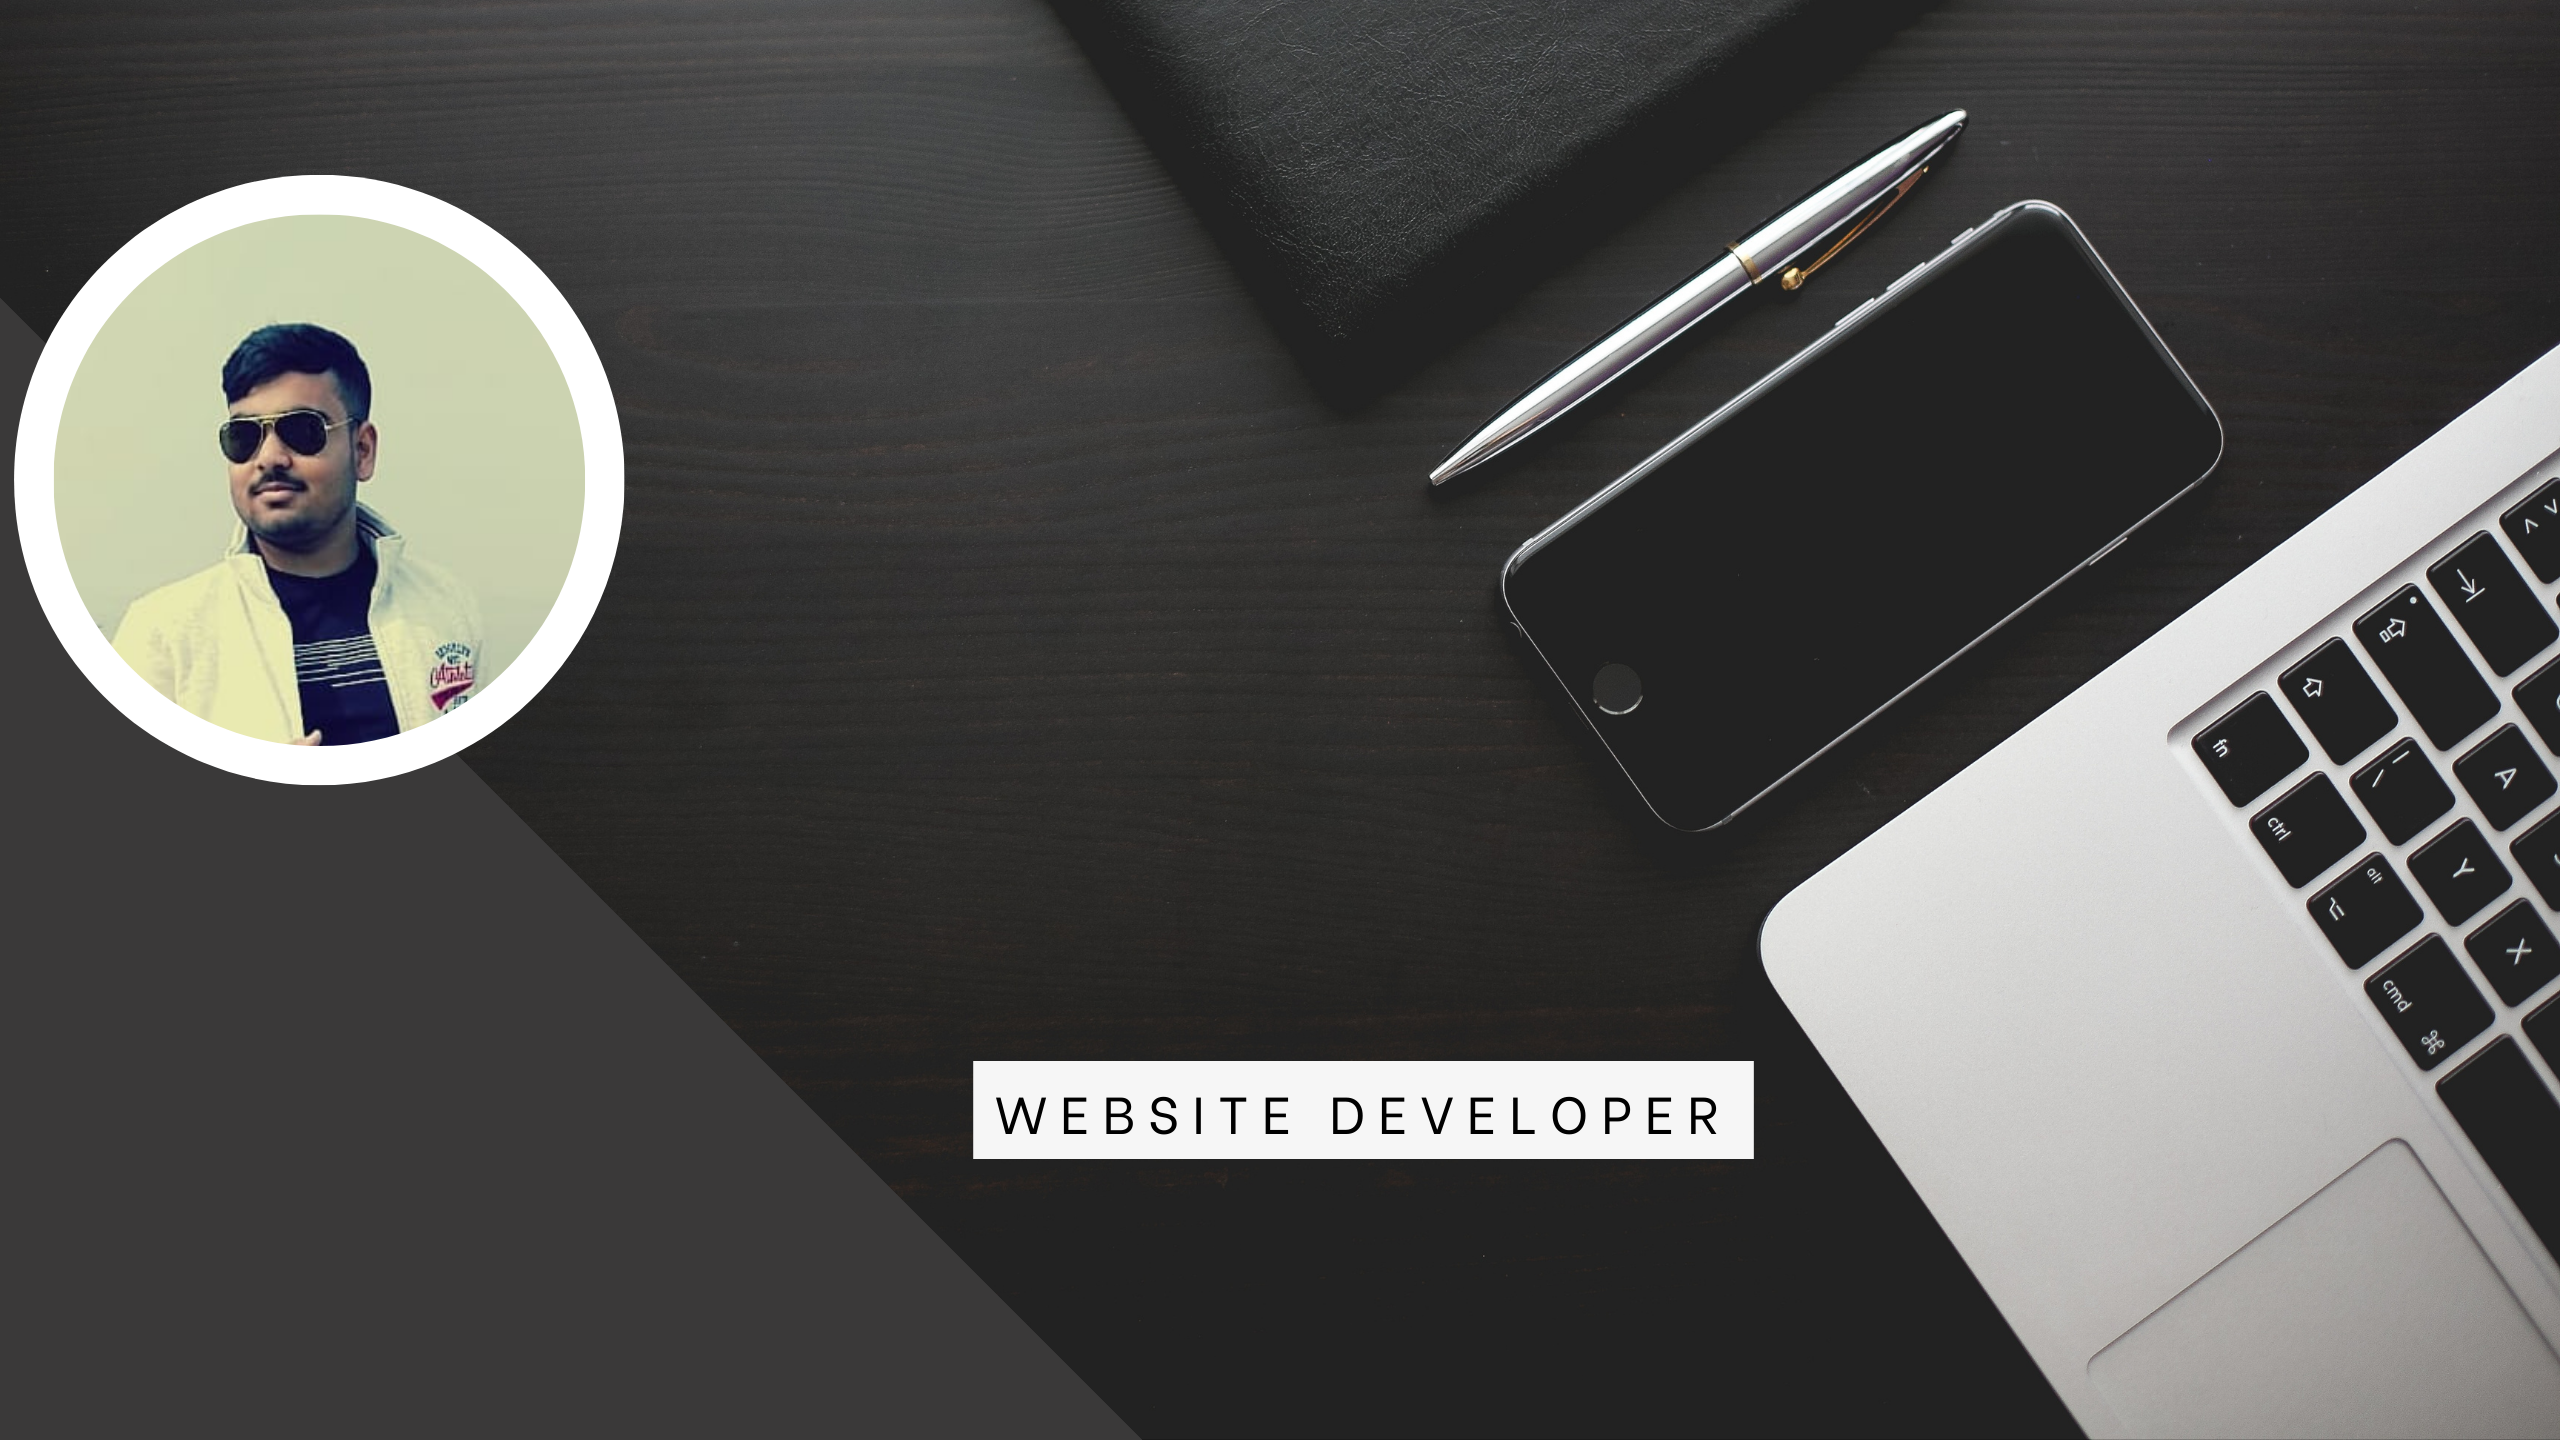
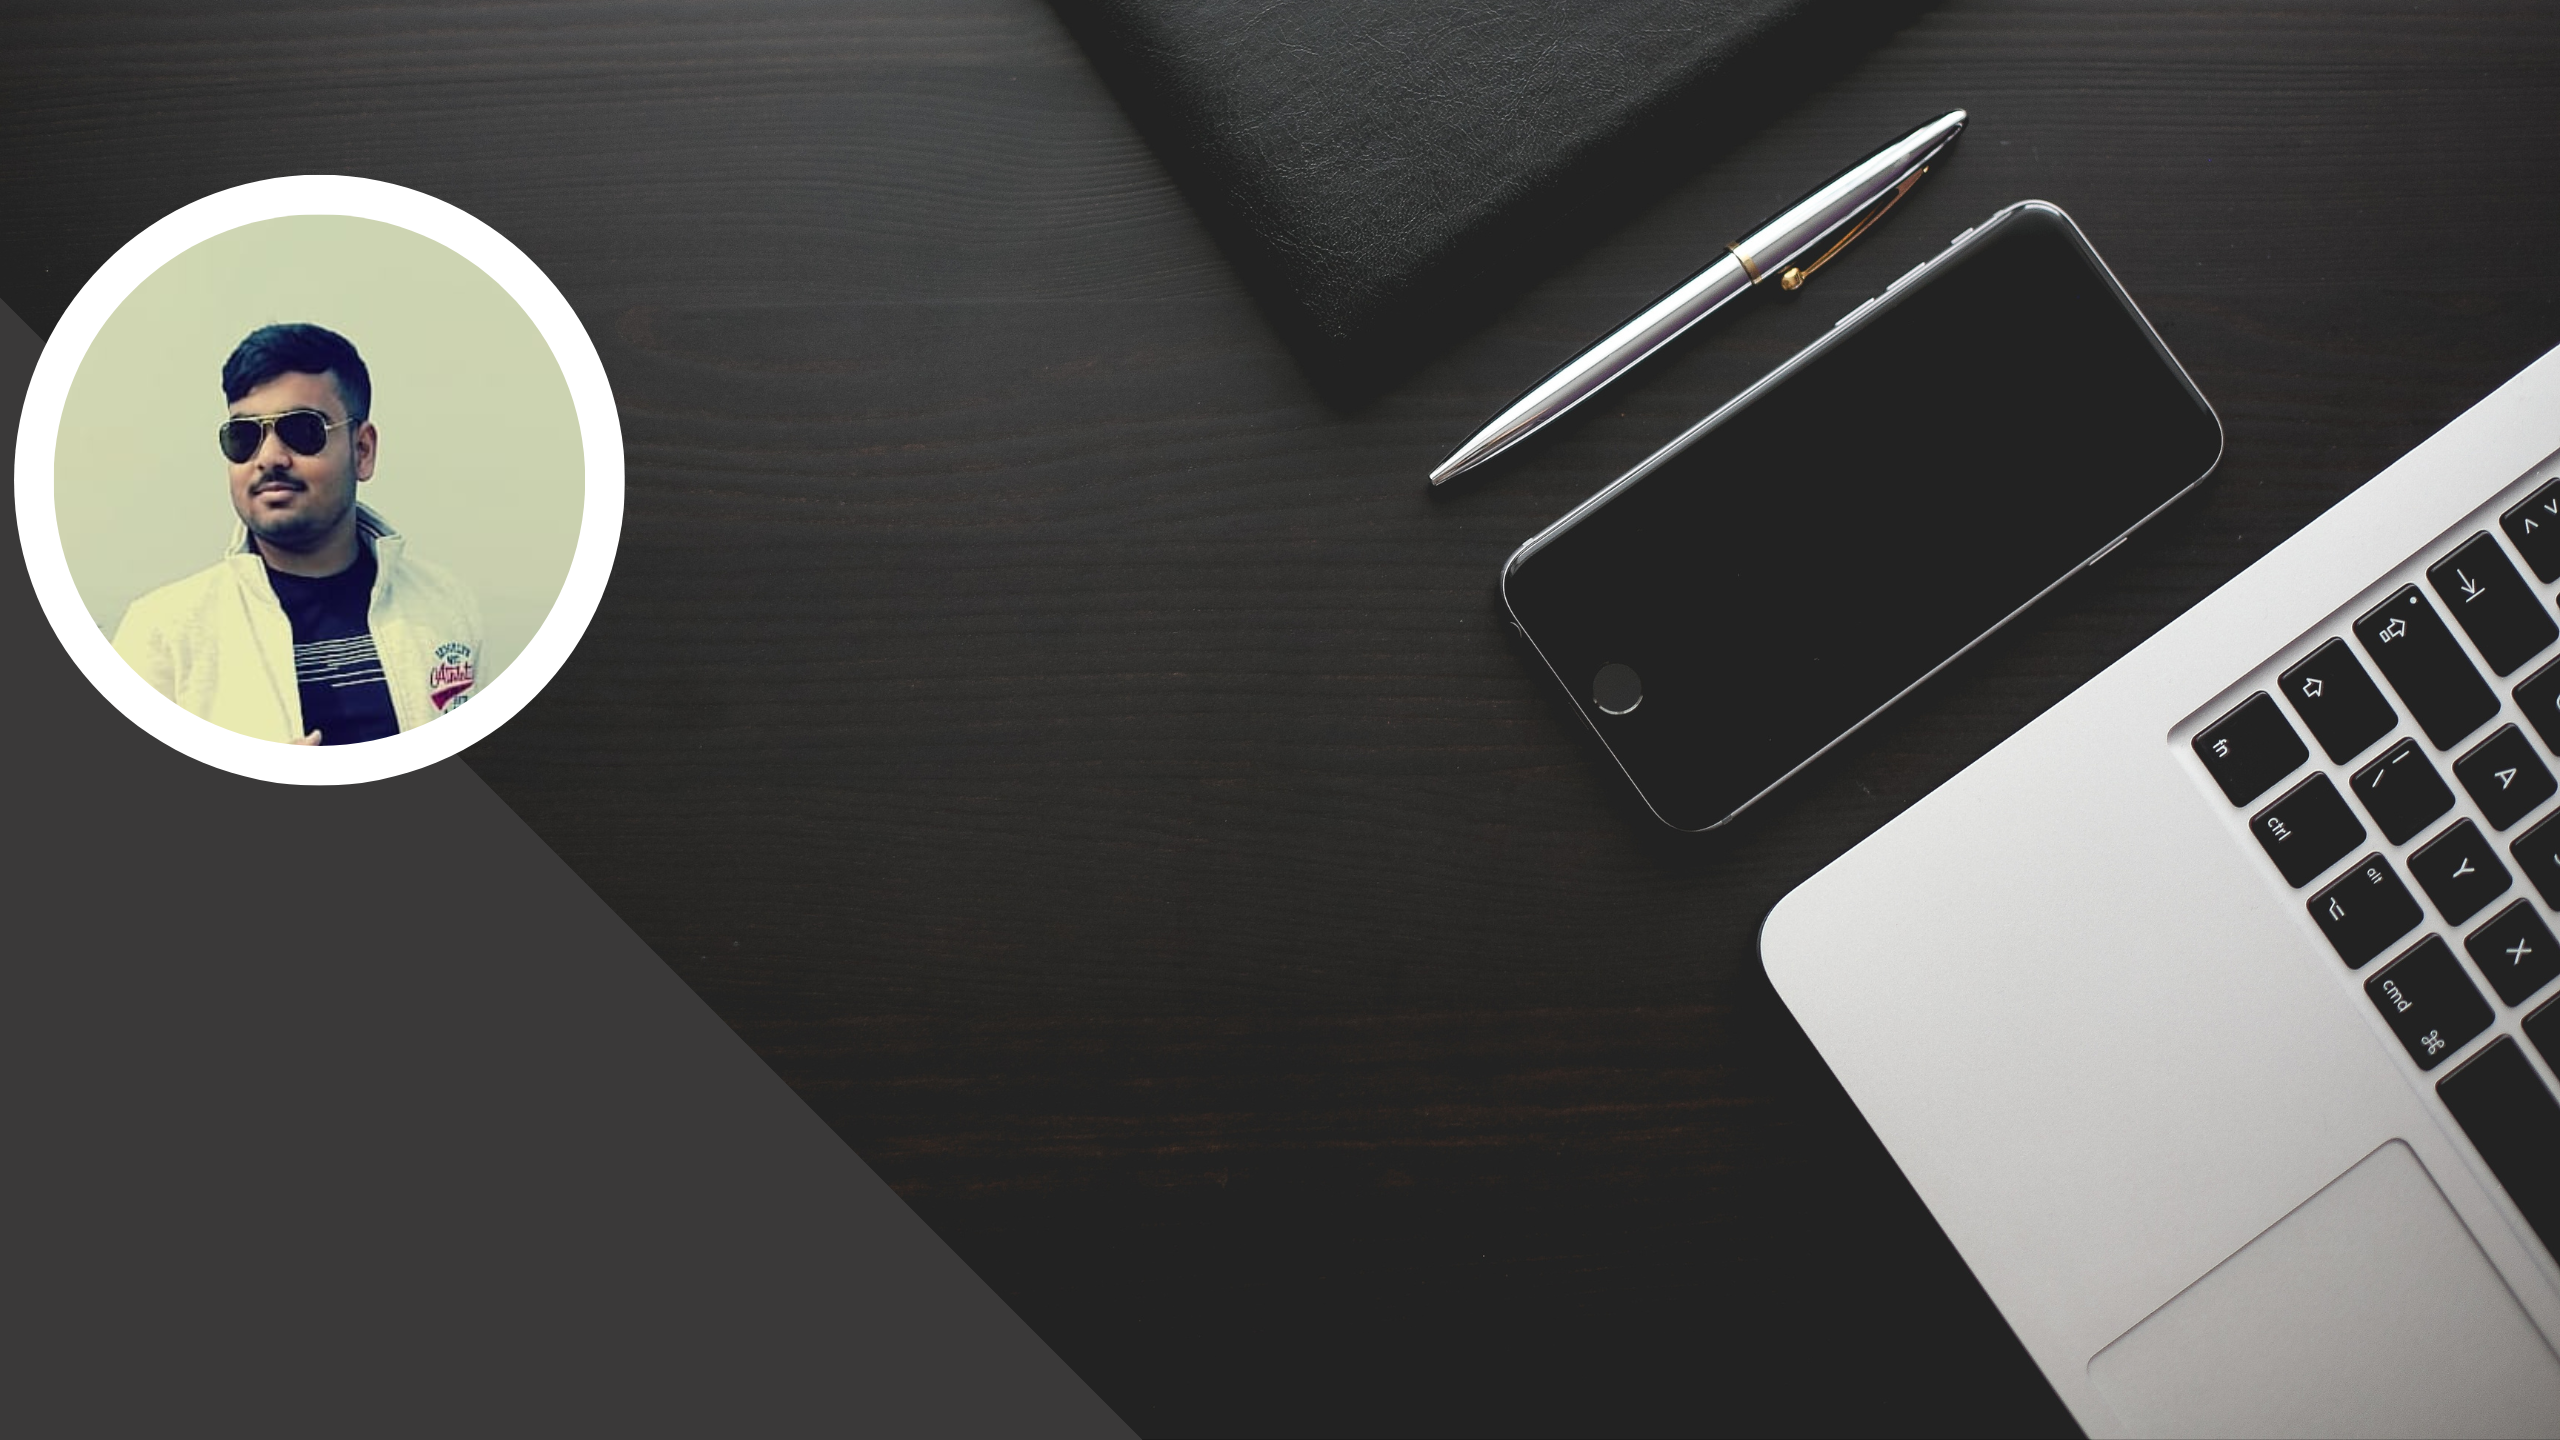
insert animation

Changed region(s): [[0.375, 0.7188, 0.6875, 0.8125]]

diff --git a/index.html b/index.html
@@ -60,6 +60,7 @@
                 <br>
                 <br>
                 <p class="hero_desc">I am a BTech CSE student from SRM Institute of Science and Technology, Chennai</p>
+                <span id="element"></span>
             </div>
             </div>
         </div>
@@ -347,6 +348,14 @@
 
     <!-- load javascript after loading all html content -->
     <script src="script/script.js"></script>
+    <script src="https://unpkg.com/typed.js@2.0.16/dist/typed.umd.js"></script>
+    <script>
+        var typed = new Typed('#element', {
+            strings: ['WEB DEVELOPER', '&amp; UI/UX DESIGNER', 'WEB DESIGNER'],
+            typeSpeed: 40,
+        });
+    </script>
+
 
 </body>
 

diff --git a/style.css b/style.css
@@ -2,6 +2,10 @@
 .navbarScroll.navbarDark {
     background-color: black;
 }
+#element{
+    font-size: 50px;
+    color: rgb(207, 197, 197);
+}
 
 /* hero background image */
 .bgimage {
